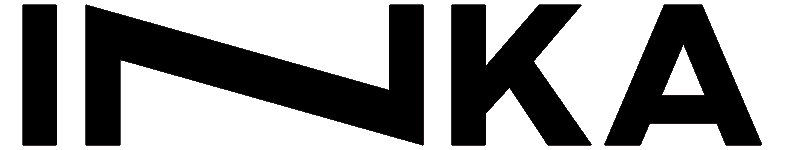
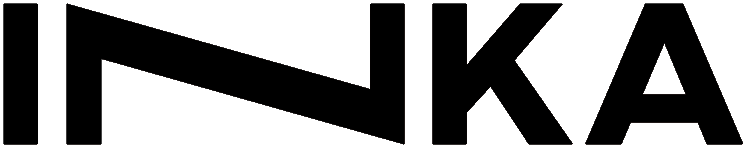
Changed to block style

diff --git a/src/components/LandingPage.js b/src/components/LandingPage.js
@@ -4,7 +4,7 @@
  * and open the template in the editor.
  */
 import React from 'react'
-import Block from './Block'
+import Blocks from './Blocks'
 import { Row, NavbarBrand } from 'reactstrap'
 
 
@@ -13,55 +13,41 @@ class LandingPage extends React.Component {
         super(props);
         this.state = {
           hover:false,
+          active:"",
           block:[
             {name:"one", header:"Tiedonhallinta ja analytiikka"},
             {name:"two", header:"Sovelluskehitys"},
             {name:"three", header:"Referenssit"},
             {name:"four", header:"Yhteystiedot"}]
         };
-        this.clickBlock = this.clickBlock.bind(this);
-        this.handleIn = this.handleIn.bind(this);
-        this.handleOut = this.handleOut.bind(this);
+        this.activeBlock = this.activeBlock.bind(this);
       }
-      clickBlock(){
-        if(window.innerWidth<=768){
+      activeBlock(block){
+          if(block===""){
+            this.setState({
+              hover:false
+            });
+          }else{
+            this.setState({
+              hover:true
+            });
+          }
           this.setState({
-            hover:!this.state.hover
+            active:block
           });
-        }
-      }
-      handleIn(){
-        if(window.innerWidth>768){
-          this.setState({
-            hover:!this.state.hover
-          });
-        }
-      }
-      handleOut(){
-        if(window.innerWidth>768){
-          this.setState({
-            hover:!this.state.hover
-          });
-        }
-      }
-      rows(){
-        return(
-          this.state.block.map((a) => (
-            <Row  className={!this.state.hover ? a.name+" block blocks align-items-center": a.name+" blockHover blocks align-items-center"} name={a.name}>
-              <Block status={this.state.hover} block={a.name} header={a.header}/>
-            </Row>
-          ))
-        )
       }
   render() {
 
     return (
-        <div>
-        <NavbarBrand className="transparent" href="/"><h1>AARNIVAL</h1></NavbarBrand>
-        <div onMouseOver={this.handleIn} onMouseOut={this.handleOut}  onClick={this.clickBlock}>
-              {this.rows()}
-        </div>
-        </div>
+      <div>
+        <NavbarBrand className="largeLogo" href="/"><h1 className="blackWhite">AARNIVAL</h1></NavbarBrand>
+        <Row className={(!this.state.hover ? "blockRow" : ((this.state.active==="one" || this.state.active==="two") ? "blockRowHoverHover" : "blockRowHover"))+" blocks"}>
+          <Blocks activeBlock={this.activeBlock} active={this.state.active} blocks={[this.state.block[0],this.state.block[1]]} hover={(this.state.active==="one" || this.state.active==="two") ? true : false}/>
+        </Row>
+        <Row className={(!this.state.hover ? "blockRow" : ((this.state.active==="three" || this.state.active==="four") ? "blockRowHoverHover" : "blockRowHover"))+" blocks"}>
+          <Blocks activeBlock={this.activeBlock} active={this.state.active} blocks={[this.state.block[3],this.state.block[2]]} hover={(this.state.active==="three" || this.state.active==="four") ? true : false}/>
+        </Row>
+      </div>
     );
   }
 }

diff --git a/src/components/Block.js b/src/components/Block.js
@@ -5,14 +5,13 @@
  */
 import React from 'react';
 import inka from '../img/inka.png';
-import { Col} from 'reactstrap';
 
 
 class Block extends React.Component {
   constructor(props) {
         super(props);
         this.state = {
-          hover:false,
+          active:this.props.active
         };
         this.handleIn = this.handleIn.bind(this);
         this.handleOut = this.handleOut.bind(this);
@@ -20,25 +19,37 @@ class Block extends React.Component {
       }
       clickBlock(){
         if(window.innerWidth<=768){
-          this.setState({
-            hover:!this.state.hover
-          });
+          if(this.props.active===this.props.block){
+            this.props.activeBlock("");
+          }else{
+            this.props.activeBlock(this.props.block);
+          }
         }
       }
       handleIn(){
         if(window.innerWidth>768){
-          this.setState({
-            hover:!this.state.hover
-          });
+          this.props.activeBlock(this.props.block);
         }
       }
       handleOut(){
         if(window.innerWidth>768){
-          this.setState({
-            hover:!this.state.hover
-          });
+            this.props.activeBlock("");
         }
       }
+  placement(){
+    switch(this.props.block){
+      case "one":
+        return ""
+      case "two":
+        return "justify-content-end"
+      case "three":
+        return "justify-content-end align-items-end"
+      case "four":
+        return "align-items-end"
+        default: return;
+    }
+  
+  }
   content(){
     switch(this.props.block){
       case "one":
@@ -46,7 +57,7 @@ class Block extends React.Component {
         <div>
           <p>Moderni ja kustannustehokas</p>
           <p>tiedonhallintaratkaisu</p>
-          <p> yrityksesi tarpeisiin.</p>
+          <p> yrityksesi tarpeisiin</p>
         </div>
         )
       case "two":
@@ -54,7 +65,7 @@ class Block extends React.Component {
         <div>
           <p>Ammattitaitoista</p>
           <p>sovelluskehitystä</p>
-          <p>AWS-ympäristössä.</p>
+          <p>AWS-ympäristössä</p>
         </div>
         )
       case "three":
@@ -78,17 +89,13 @@ class Block extends React.Component {
   }
   
   render() {
-    
     return (
-        <div className="blockContent d-flex justify-content-between align-items-center" onMouseOver={this.handleIn} onMouseOut={this.handleOut} onClick={this.clickBlock}>
-            <Col></Col>
-            <Col className={this.state.hover ? "textCol transition" : "textCol hidden"}>
-              {this.content()}
-            </Col>
-            <Col className="text-right" >
-              <h2 className="header">{this.props.header}</h2>
-            </Col>
+      <div  className={"d-flex blockWrapper "+this.placement()} onMouseOver={this.handleIn} onMouseOut={this.handleOut} onClick={this.clickBlock}>
+        <div className={this.props.active===this.props.block ? "textCol transition" : "textCol hidden"}>
+          <h2 className="header">{this.props.header}</h2>
+          {this.content()}
         </div>
+      </div>
     );
   }
 };

diff --git a/src/css/theme.css b/src/css/theme.css
@@ -5,13 +5,30 @@
 .hidden{
     visibility: hidden;
 }
-.transparent{
+.smallLogo{
     background:transparent;
     position: fixed;
     width:10vw;
     height: 75vh;
 }
-h1{
+.largeLogo{
+    position: fixed;
+    background:transparent;
+    height: 10vh;
+    text-align: center;
+    width: 36vw;
+    margin-left: 32vw;
+    margin-top: 45vh;
+}
+.blackWhite{
+    background:black;
+    color:white;
+    font-family:Hind;
+    font-weight: bolder;
+    font-size: calc(50% + 5vw);
+    margin:0;
+}
+.transparent{
     color: black;
     writing-mode: vertical-rl;
     text-orientation: upright;
@@ -19,6 +36,13 @@ h1{
     letter-spacing:-13px;
     font-weight: bolder;
     font-size: calc(50% + 5vh);
+}
+.blocks{
+    -webkit-transition: height 0.3s,width 0.3s; /* Safari */
+    transition: height 0.3s, width 0.3s;
+}
+.blockWrapper{
+    height:100%;
 }
 .transition{
     transition: visibility 0.3s;
@@ -30,41 +54,73 @@ h1{
     height: 25vh;
     margin: 0;
 }
- 
-.blockHover{
-    height: calc(50vh / 3);
+.blockRow{
+    height: 50vh;
+    width: 100vw;
     margin: 0;
 }
-.blockHover:hover{
-    height: 50vh;
+.blockRowHover{
+    height: 25vh;
+    width: 100vw;
+    margin: 0;
 }
-.blocks{
-    -webkit-transition: height 0.3s; /* Safari */
-    transition: height 0.3s;
+.blockRowHoverHover{
+    height: 75vh;
+    width: 100vw;
+    margin: 0;
 }
+.blockCol{
+    width:50vw;
+    height:100%;
+    padding: 0;
+}
+.blockColHover{
+    width:25vw;
+    height:100%;
+    padding: 0;
+}
+.blockColHoverHover{
+    width:75vw;
+    height:100%;
+    padding: 0;
+}
+
 .blockContent{
     width:100vw;
     height: 100%;
 }
+.blockWrapper{
+    height:100%;
+}
 .one{
     color:black;
     background-color:white;
+    padding-top:10vh;
+    padding-left:calc(10% + 3vw);
 }
 .two{
     color:black;
     background-color: #ffc800;
+    padding-top:10vh;
+    padding-right:calc(10% + 3vw);
+    text-align:right;
 }
 .three{
     color:black;
     background-color: white;
+    padding-bottom:10vh;
+    padding-right:calc(10% + 3vw);
+    text-align:right;
 }
 .four{
     color:white;
     background-color: black;
+    padding-bottom:10vh;
+    padding-left:calc(10% + 3vw);
 }
-
 .header{
     font-size: calc(50% + 1.5vw);
+    padding:0;
 }
 p,a,.header{
     font-family:Hind;
@@ -80,15 +136,13 @@ a:hover{
 .black, .black:hover{
     color:black;
 }
-.vcenter {
-    margin-top: 50%;
-}
 .textCol{
-    text-align: center;
     font-size: calc(50% + 0.7vw);
     padding:0;
 }
 
 body{
     background-color: black;
+    width: 100vw;
+    height: 100vh;
 }

diff --git a/src/components/Blocks.js b/src/components/Blocks.js
@@ -1,0 +1,38 @@
+/* 
+ * To change this license header, choose License Headers in Project Properties.
+ * To change this template file, choose Tools | Templates
+ * and open the template in the editor.
+ */
+import React from 'react';
+import Block from './Block';
+
+
+class Blocks extends React.Component {
+  constructor(props) {
+        super(props);
+        this.state = {
+          hover:false,
+        };
+        this.activeBlock = this.activeBlock.bind(this);
+      }
+      activeBlock(block){
+          this.props.activeBlock(block);
+      }
+  render() {
+    
+    return (
+        <div className="d-flex" onMouseOver={this.handleIn} onMouseOut={this.handleOut} onClick={this.clickBlock}>
+            <div className={(!this.props.hover ? this.props.blocks[0].name+" blockCol" : this.props.blocks[0].name+((this.props.active==="one" || this.props.active==="four") ? " blockColHoverHover" : " blockColHover"))+" blocks"}>
+                <Block active={this.props.active} block={this.props.blocks[0].name} header={this.props.blocks[0].header} activeBlock={this.activeBlock}/>
+            </div>
+            <div className={(!this.props.hover ? this.props.blocks[1].name+" blockCol" : this.props.blocks[1].name+((this.props.active==="two" || this.props.active==="three") ? " blockColHoverHover" : " blockColHover"))+" blocks"}>
+                <Block active={this.props.active}  block={this.props.blocks[1].name} header={this.props.blocks[1].header} activeBlock={this.activeBlock}/>
+            </div>
+        </div>
+    );
+  }
+};
+
+
+
+export default Blocks;

diff --git a/public/index.html b/public/index.html
@@ -4,6 +4,8 @@
     <meta charset="utf-8">
     <meta name="viewport" content="width=device-width, initial-scale=1, shrink-to-fit=no">
     <meta name="theme-color" content="#000000">
+    <title>Aarnival - AWS-asiantuntija</title>
+    <meta name="description" content="Aarnival - tiedonhallintaa ja sovelluskehitystä AWS-ympäristössä">
     <!--
       manifest.json provides metadata used when your web app is added to the
       homescreen on Android. See https://developers.google.com/web/fundamentals/engage-and-retain/web-app-manifest/
